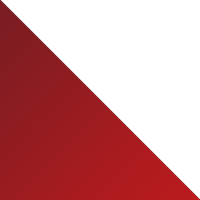
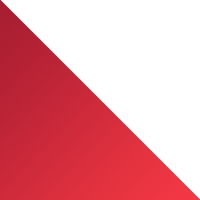
:recycle: update cinnabar colors again

diff --git a/lib/services/theme.dart b/lib/services/theme.dart
@@ -145,7 +145,7 @@ class ThemeService {
     OBTheme(
         id: 11,
         name: 'Light Cinnabar',
-        primaryAccentColor: '#a31f3f, #db1143',
+        primaryAccentColor: '#A71D31, #F53844',
         primaryTextColor: '#505050',
         secondaryTextColor: '#676767',
         primaryColor: '#ffffff',
@@ -161,7 +161,7 @@ class ThemeService {
         primaryTextColor: '#ffffff',
         secondaryTextColor: '#b3b3b3',
         primaryColor: '#232323',
-        primaryAccentColor: '#a31f3f, #db1143',
+        primaryAccentColor: '#A71D31, #F53844',
         successColor: '#7ED321',
         successColorAccent: '#ffffff',
         dangerColor: '#FF3860',
